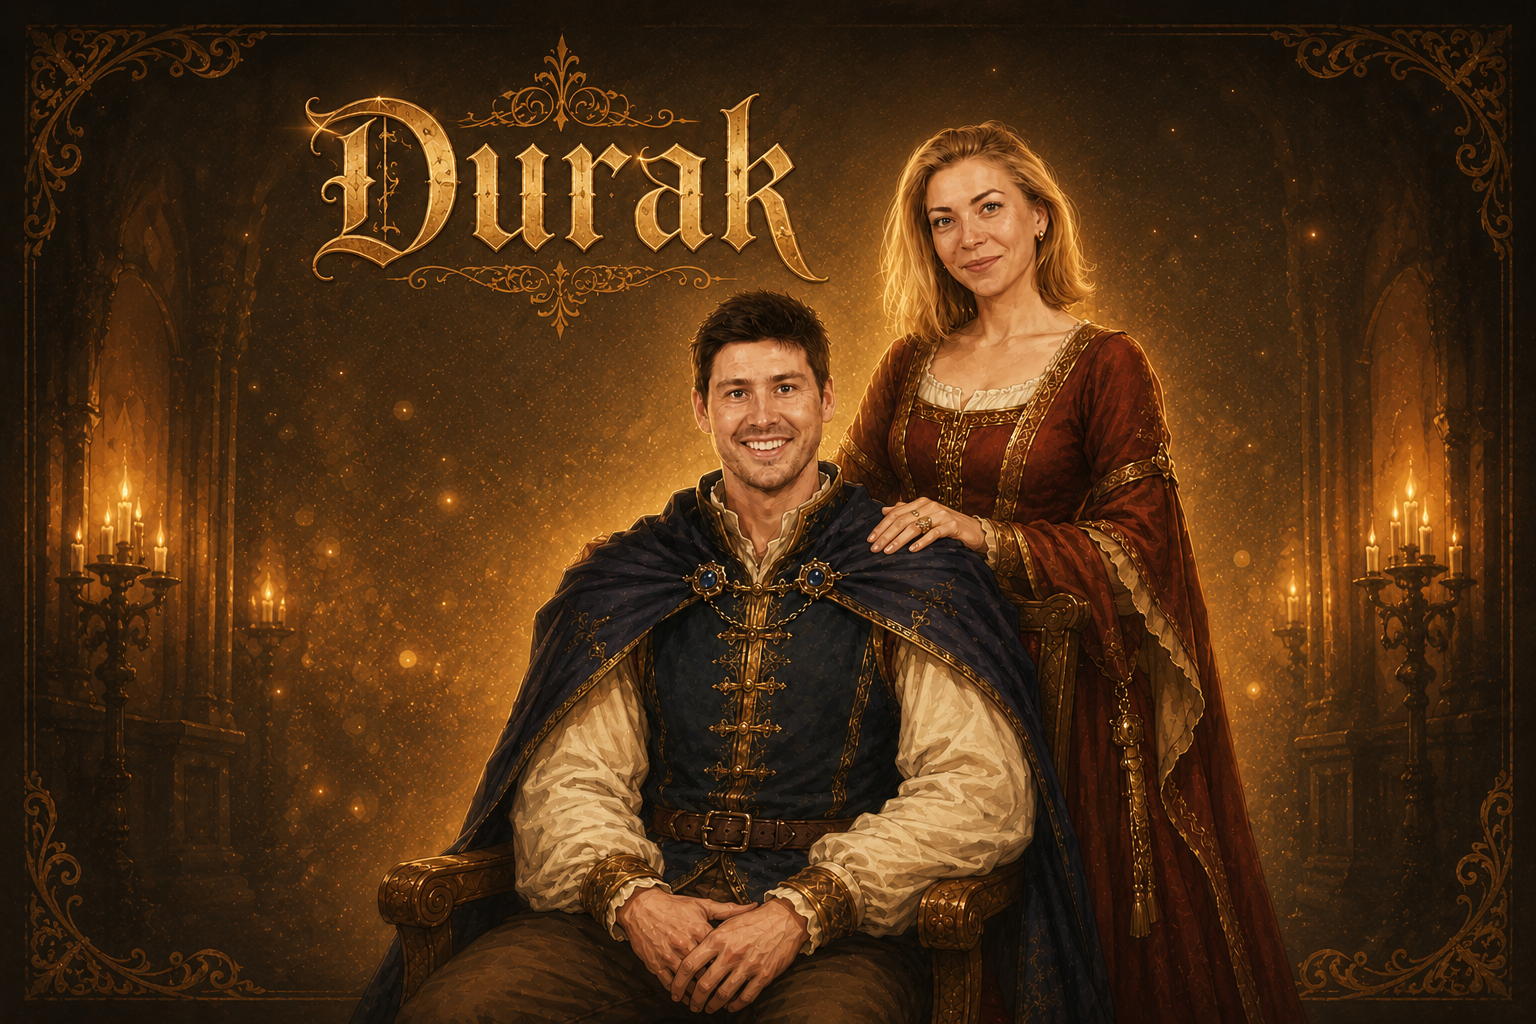
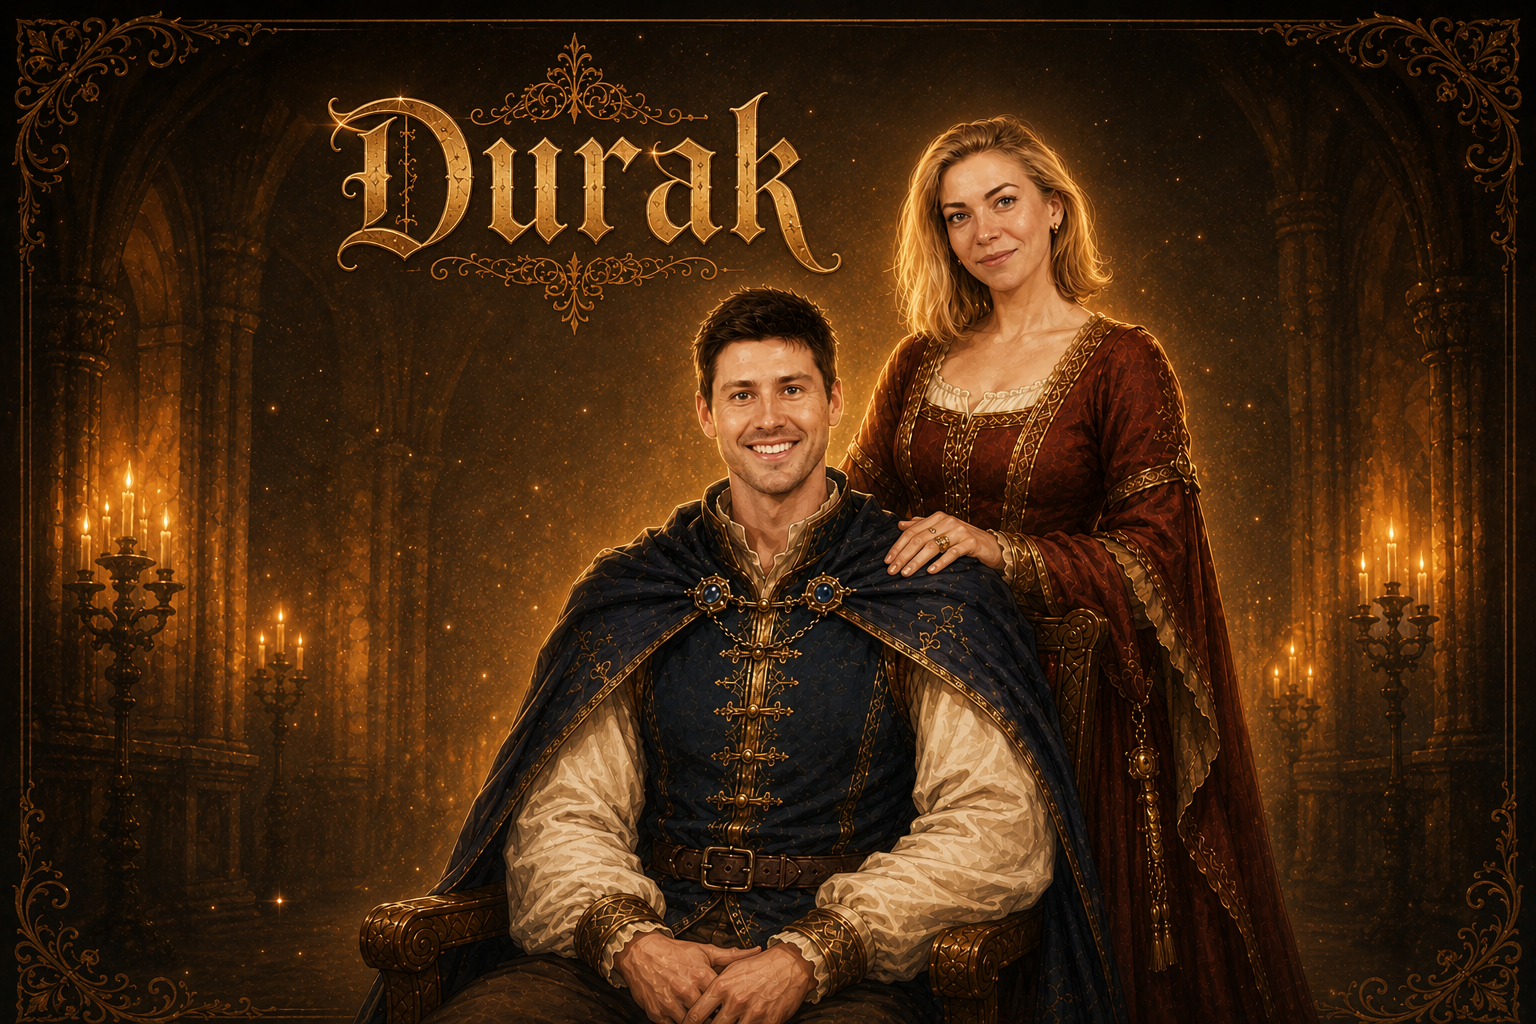
UI: card art resolution, layout, splash assets
- Resolve face PNGs with per-card and paired filenames; README for naming
- Replace paired court/nonface art with new per-rank/suit and paired PNGs
- Desktop: CSS zoom and sizing; hand-deck vertical gap; turn line under hand above actions
- Update game_start_wide/long splash images

diff --git a/client.html b/client.html
@@ -44,18 +44,30 @@
         --deck-nudge-y: 0px;
         --trump-stack-z: 2;
         --deck-pile-z: 4;
+        /*
+          MANUAL SIZE:
+          - --ui-zoom — phone: transform scale on #gameShell. Desktop (wide): CSS zoom (reflows layout; use this to “fill” the window).
+          - --card-w / --card-h — base + @media (min-width: 541px) / (max-width: 540px); raise clamp() MAX for bigger cards.
+        */
         --ui-zoom: 1;
+        /* Vertical gap: opponent hand ↔ battle row (deck) ↔ your hand — same value top & bottom of .battle-strip */
+        --hand-deck-vertical-gap: 1.05rem;
       }
 
-      /* Desktop / tablet — ~110% vs base (matches “browser zoom 110%” feel, no transform clipping) */
+      /* Desktop / tablet — larger cards + default zoom so the playmat uses the window (not a tiny top-left box) */
       @media (min-width: 541px) {
         :root {
-          --card-w: clamp(5rem, min(7.5vw, 8.8vmin), 10.25rem);
-          --card-h: clamp(7rem, min(10.6vw, 12.4vmin), 14.25rem);
+          /* ~+20% vs 1.18 — roughly the extra ~120% browser zoom you were using */
+          --ui-zoom: 1.42;
+          --card-w: clamp(5.5rem, min(9.8vmin, 11.8vw), 13rem);
+          --card-h: clamp(7.65rem, min(13.8vmin, 16.2vw), 17.75rem);
         }
       }
 
-      /* Phone: trump under pile; deck+trump shifted left ~10vw for table space */
+      /*
+        Phone / iPhone (max-width: 540px): own --card-w/--card-h; transform scale only (no CSS zoom).
+        Desktop --ui-zoom (1.42) does not apply here — :root --ui-zoom stays 1 unless you set it in this block.
+      */
       @media (max-width: 540px) {
         :root {
           --card-w: clamp(4.25rem, 24vmin, 7.5rem);
@@ -64,9 +76,20 @@
           --trump-stack-z: 2;
           --deck-pile-z: 4;
         }
+        body {
+          padding-left: max(0.6rem, env(safe-area-inset-left, 0px));
+          padding-right: max(0.6rem, env(safe-area-inset-right, 0px));
+          padding-bottom: max(1rem, env(safe-area-inset-bottom, 0px));
+        }
+        #gameShell {
+          zoom: normal;
+          transform: scale(var(--ui-zoom));
+          transform-origin: top center;
+        }
         #gameShell.panel {
           width: fit-content;
           min-width: 100%;
+          max-width: 100%;
           box-sizing: border-box;
         }
         .battle-strip {
@@ -136,6 +159,13 @@
           -webkit-overflow-scrolling: touch;
         }
       }
+      /*
+        Vertical rhythm:
+        - :root --hand-deck-vertical-gap — margin above & below .battle-strip (opp hand↔deck↔your hand); raise/lower both sides together.
+        “Empty strip below my hand” — also tweak:
+        body { padding } last value, section.panel { padding-bottom }, .felt--playmat padding,
+        .player-hand-block { padding-bottom }, .deck-actions-under-hand { margin-top } (hand↔buttons only).
+      */
       body {
         scrollbar-width: none;
         -ms-overflow-style: none;
@@ -241,7 +271,6 @@
       }
       /* Same typography / ink as textured buttons */
       .turn-status {
-        margin: 0 0 0.45rem;
         font-family: var(--card-corner-font);
         font-weight: 700;
         font-style: normal;
@@ -252,6 +281,19 @@
         text-transform: none;
         min-height: 1.35em;
       }
+      /* Under your hand, above Take / End attack (was top of playmat) */
+      .turn-status--under-hand {
+        margin: 0.4rem 0 0.2rem;
+        width: 100%;
+        position: relative;
+        z-index: 4;
+        pointer-events: none;
+      }
+      .turn-status--under-hand:empty {
+        display: none;
+        margin: 0;
+        min-height: 0;
+      }
       .battle-strip {
         position: relative;
         z-index: 1;
@@ -259,7 +301,7 @@
         align-items: flex-end;
         justify-content: space-between;
         gap: 0.75rem 1rem;
-        margin: 0.65rem 0;
+        margin: var(--hand-deck-vertical-gap) 0;
         min-height: calc(var(--card-h) + 3rem);
         overflow: visible;
       }
@@ -328,6 +370,8 @@
         flex-direction: column;
         gap: 0.4rem;
         width: 100%;
+        position: relative;
+        z-index: 2;
       }
       /* Yellow actions sit under your hand so they don’t overlap / steal clicks */
       .deck-actions-under-hand {
@@ -736,34 +780,40 @@
       #gameShell {
         position: relative;
         z-index: 100;
-        transform: scale(var(--ui-zoom));
-        transform-origin: top center;
+        width: 100%;
+        min-width: 100%;
+        max-width: 100%;
+        box-sizing: border-box;
       }
-      /* Desktop: compact height — no empty stretch under your hand (buttons sit under deck column) */
+      /*
+        Wide: CSS zoom reflows the subtree — unlike transform:scale(), the game actually grows and uses the viewport.
+        Top/left stay anchored in normal flow; tweak --ui-zoom in the desktop :root block above.
+      */
       @media (min-width: 541px) {
-        /*
-          Table cloth art: narrow slightly + anchor to top so ~bottom 40% of the bitmap
-          falls outside the paint box (cropped). Gradient layer fills underneath.
-        */
+        #gameShell {
+          zoom: var(--ui-zoom);
+        }
+        #gameShell.panel {
+          width: 100%;
+          min-width: 100%;
+          max-width: none;
+        }
         .felt--playmat {
+          width: 100%;
+          min-width: 0;
+          max-width: none;
           min-height: 0;
           padding-bottom: 0.35rem;
-          background-size: 78% 168%, 100% 100%;
-          background-position: center top, center;
         }
         .battle-strip {
+          width: 100%;
+          max-width: none;
           min-height: calc(var(--card-h) + 0.75rem);
-          margin-bottom: 0.35rem;
+          margin-top: var(--hand-deck-vertical-gap);
+          margin-bottom: var(--hand-deck-vertical-gap);
         }
         .player-hand-block {
           padding-bottom: 0.15rem;
-        }
-        .table-column {
-          align-items: center;
-        }
-        .table-wrap {
-          max-width: min(68%, 28rem);
-          justify-content: center;
         }
       }
     </style>
@@ -794,7 +844,6 @@
       </div>
 
       <div id="playmat" class="felt felt--playmat" hidden>
-        <p id="turnStatusLine" class="turn-status" aria-live="polite"></p>
         <div class="hand-row" id="oppHand" aria-label="Opponent cards"></div>
 
         <div class="battle-strip">
@@ -816,6 +865,11 @@
             id="gameHand"
             aria-label="Your cards"
           ></div>
+          <p
+            id="turnStatusLine"
+            class="turn-status turn-status--under-hand"
+            aria-live="polite"
+          ></p>
           <div
             id="deckActionsRow"
             class="deck-actions-row deck-actions-under-hand"
@@ -943,45 +997,97 @@
         return rank;
       }
 
+      /** Engine rank → word stem in assets/cards/*.png filenames */
+      const CARD_RANK_TO_BASENAME = {
+        "6": "six",
+        "7": "seven",
+        "8": "eight",
+        "9": "nine",
+        "10": "ten",
+        J: "jack",
+        Q: "queen",
+        K: "king",
+        A: "ace",
+      };
+      const CARD_SUIT_TO_BASENAME = {
+        H: "hearts",
+        D: "diamonds",
+        S: "spades",
+        C: "clubs",
+      };
+
       /**
-       * Maps engine card to assets/cards filename (shared art for red vs black pairs).
+       * Ordered PNG basenames to try for one card (first hit wins).
+       * 1) Per-card: {rank}_{suit}.png (e.g. ace_hearts.png)
+       * 2) Paired: {rank}_hearts_diamonds.png / {rank}_spades_clubs.png
+       * 3) Legacy shared courts: ace_hearts_diamonds.png, … / nonface_*.png for 6–10
        */
-      function cardImageBasename(rank, suit) {
-        const pair =
-          suit === "H" || suit === "D" ? "hearts_diamonds" : "spades_clubs";
-        if (rank === "A") return `ace_${pair}.png`;
-        if (rank === "J") return `jack_${pair}.png`;
-        if (rank === "Q") return `queen_${pair}.png`;
-        if (rank === "K") return `king_${pair}.png`;
-        return `nonface_${pair}.png`;
+      function cardAssetFilenameCandidates(rank, suit) {
+        const rw = CARD_RANK_TO_BASENAME[rank];
+        const sw = CARD_SUIT_TO_BASENAME[suit];
+        /** @param {string[]} list @param {string} name */
+        const add = (list, name) => {
+          if (name && !list.includes(name)) list.push(name);
+        };
+        const out = [];
+        if (rw && sw) add(out, `${rw}_${sw}.png`);
+
+        if (rw) {
+          if (suit === "H" || suit === "D") add(out, `${rw}_hearts_diamonds.png`);
+          if (suit === "S" || suit === "C")
+            add(out, `${rw}_spades_clubs.png`);
+        }
+
+        if (["J", "Q", "K", "A"].includes(rank) && rw) {
+          const pair =
+            suit === "H" || suit === "D" ? "hearts_diamonds" : "spades_clubs";
+          const face =
+            rank === "J"
+              ? "jack"
+              : rank === "Q"
+                ? "queen"
+                : rank === "K"
+                  ? "king"
+                  : "ace";
+          add(out, `${face}_${pair}.png`);
+        } else if (rw && !["J", "Q", "K", "A"].includes(rank)) {
+          const pair =
+            suit === "H" || suit === "D" ? "hearts_diamonds" : "spades_clubs";
+          add(out, `nonface_${pair}.png`);
+        }
+
+        return out;
       }
 
-      function cardImageUrl(cardId) {
+      function cardImageUrlCandidates(cardId) {
         const p = parseCardId(cardId);
-        if (!p) return null;
-        const file = cardImageBasename(p.rank, p.suit);
-        return `/assets/cards/${encodeURIComponent(file)}`;
+        if (!p) return [];
+        return cardAssetFilenameCandidates(p.rank, p.suit).map(
+          (f) => `/assets/cards/${encodeURIComponent(f)}`,
+        );
       }
 
-      /** Warm Safari/WebKit decode cache — only ten PNGs for this deck art style */
-      const CARD_FACE_PRELOAD_BASES = [
-        "nonface_hearts_diamonds.png",
-        "nonface_spades_clubs.png",
-        "ace_hearts_diamonds.png",
-        "ace_spades_clubs.png",
-        "jack_hearts_diamonds.png",
-        "jack_spades_clubs.png",
-        "queen_hearts_diamonds.png",
-        "queen_spades_clubs.png",
-        "king_hearts_diamonds.png",
-        "king_spades_clubs.png",
-      ];
+      function collectAllCardFacePreloadUrls() {
+        const set = new Set();
+        const out = [];
+        for (const rank of RANKS) {
+          for (const suit of SUITS) {
+            for (const url of cardImageUrlCandidates(`${rank}${suit}`)) {
+              if (!set.has(url)) {
+                set.add(url);
+                out.push(url);
+              }
+            }
+          }
+        }
+        return out;
+      }
 
       function preloadCardFaceAssets() {
-        for (const base of CARD_FACE_PRELOAD_BASES) {
+        for (const url of collectAllCardFacePreloadUrls()) {
           const im = new Image();
           im.decoding = "async";
-          im.src = `/assets/cards/${encodeURIComponent(base)}`;
+          im.src = url;
         }
       }
 
@@ -995,7 +1101,7 @@
 
       /**
        * Face-up card DOM. Tries custom art under assets/cards; on error falls back to legacy markup.
-       * Single render site for table, hands, trump, practice.
+       * Rank + suit overlays stay on every card (even full-illustration PNGs with no text in the art).
        */
       function faceEl(cardId, extraClass) {
         const p = parseCardId(cardId);
@@ -1009,7 +1115,7 @@
         const ui = SUIT_UI[p.suit];
         const overlayClass = ui.red ? "card--overlay-red" : "card--overlay-navy";
         const rankLine = rankOverlayLabel(p.rank);
-        const url = cardImageUrl(cardId);
+        const urls = cardImageUrlCandidates(cardId);
 
         el.title = cardId;
         el.className = `card card--face-art ${overlayClass} ${extraClass || ""}`.trim();
@@ -1031,19 +1137,33 @@
         br.className = "card__overlay-corner card__overlay-corner--br";
         br.innerHTML = cornerInner;
 
-        const fallback = () => {
+        const finishPlain = () => {
           img.onerror = null;
+          img.onload = null;
           img.remove();
           tl.remove();
           br.remove();
           applyPlainFaceMarkup(el, p, ui, extraClass);
         };
 
-        img.onerror = fallback;
-        img.src = url;
+        let urlIndex = 0;
+        img.onload = () => {
+          img.onerror = null;
+        };
+        img.onerror = () => {
+          urlIndex += 1;
+          if (urlIndex >= urls.length) {
+            finishPlain();
+            return;
+          }
+          img.src = urls[urlIndex];
+        };
+
         el.appendChild(img);
         el.appendChild(tl);
         el.appendChild(br);
+        if (urls.length === 0) finishPlain();
+        else img.src = urls[0];
         return el;
       }
 
@@ -1430,7 +1550,6 @@
       const btnTakeEl = document.getElementById("btnTake");
       const btnEndTurnEl = document.getElementById("btnEndTurn");
       const deckActionsRowEl = document.getElementById("deckActionsRow");
-
       function log(line) {
         console.log(String(line));
       }
